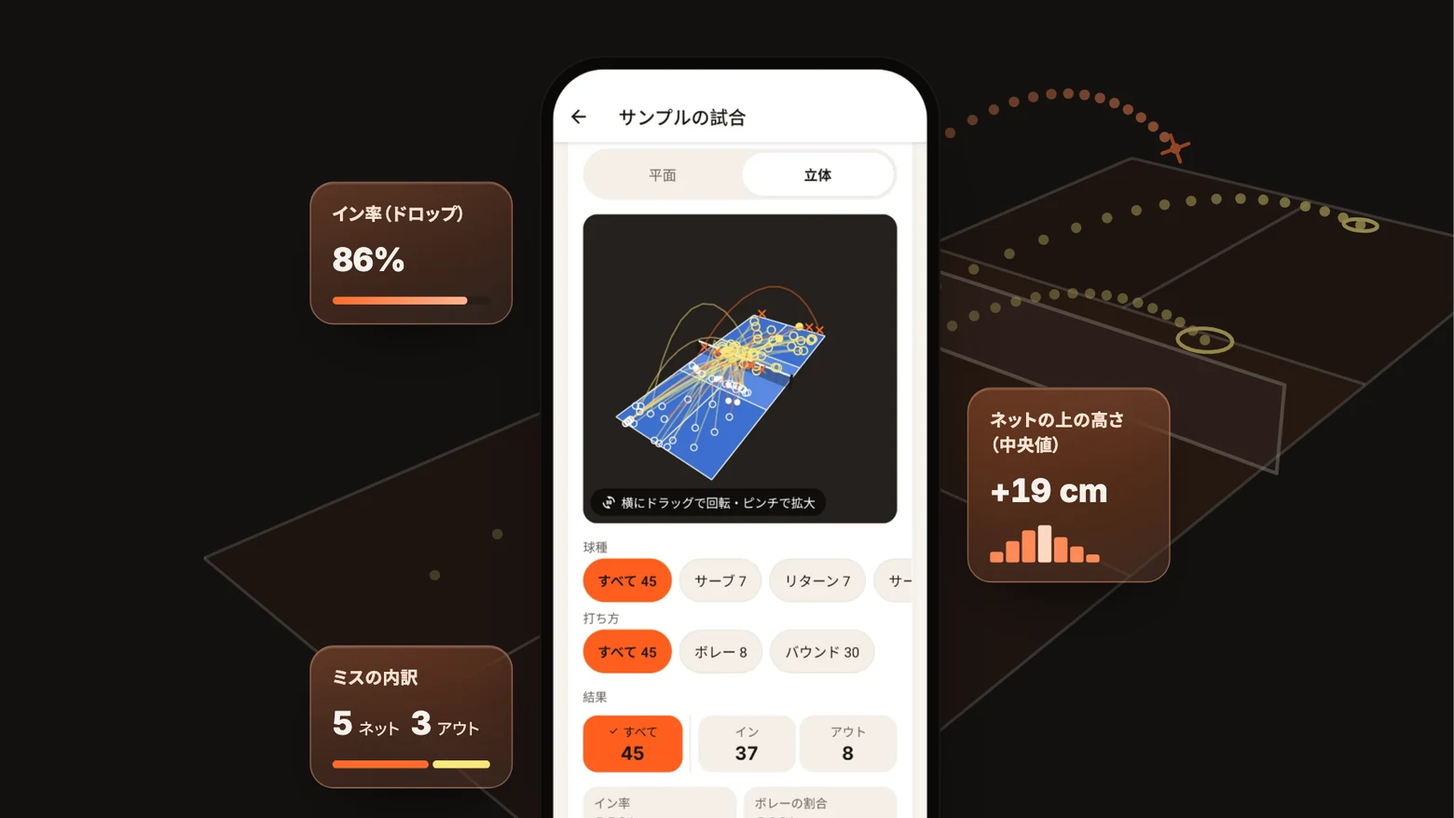
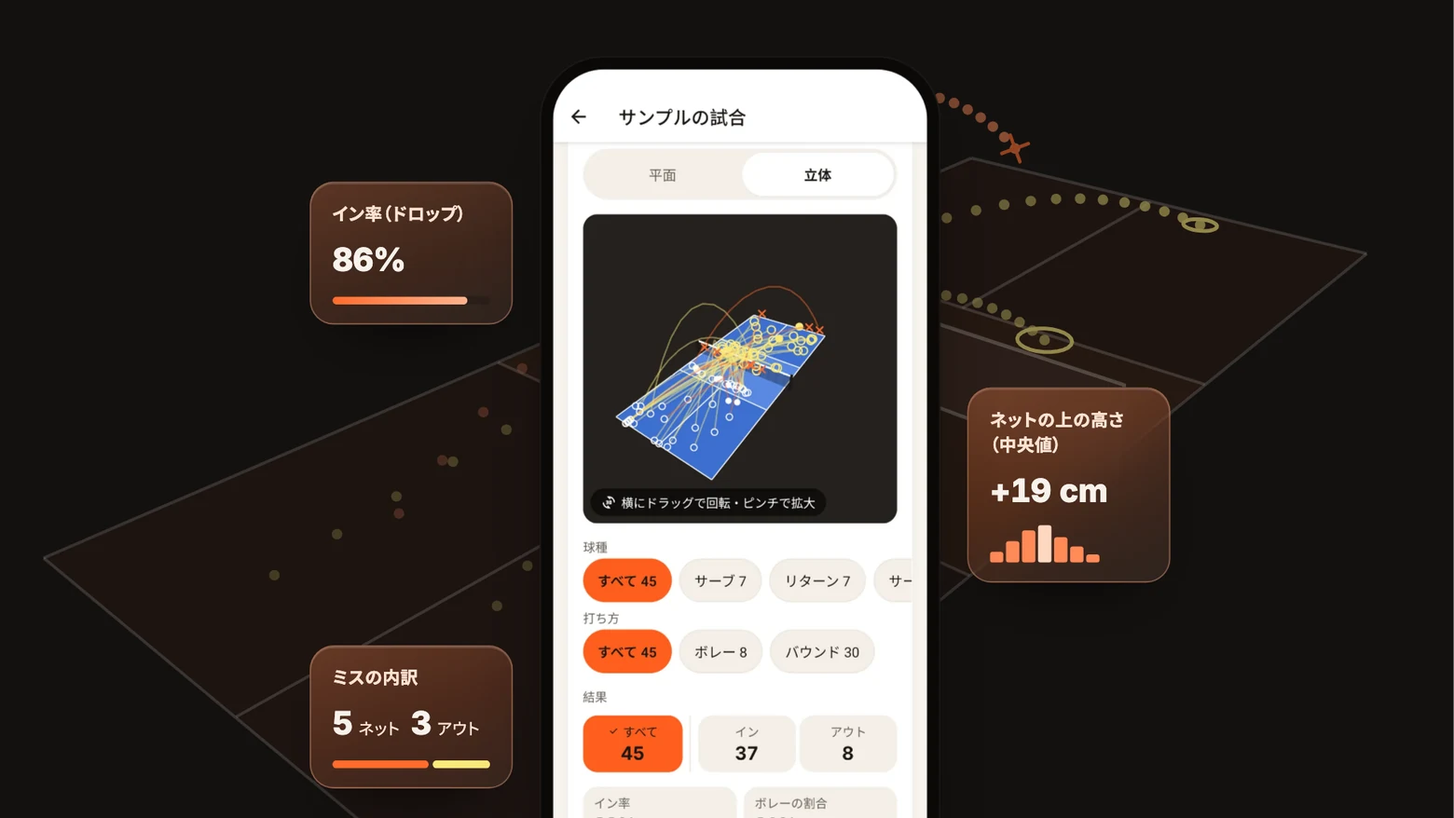
Pickle Up のページの冒頭のコートが、広い画面で絵の枠のところで縦にまっすぐ切れていたので、絵を四方に広げてコートを最後まで描く（打球の位置と大きさは変えない）。トップページのカードの画像は、スマホを中心に切り出し、コートが画像の真ん中に来るようにして撮り直す
Claude-Session: https://claude.ai/code/session_01RcorTwHLSLi3TqpLhpw8hm

diff --git a/en/apps/pickle-up/index.html b/en/apps/pickle-up/index.html
@@ -27,7 +27,7 @@
 <link rel="preconnect" href="https://fonts.gstatic.com" crossorigin>
 <link href="https://fonts.googleapis.com/css2?family=Inter:wght@400;500;600;700;800&family=Noto+Sans+JP:wght@400;500;700;800&display=swap" rel="stylesheet">
 <link rel="stylesheet" href="https://cdnjs.cloudflare.com/ajax/libs/remixicon/4.6.0/remixicon.min.css">
-<link rel="stylesheet" href="/assets/css/apps/pickle-up.css?v=41">
+<link rel="stylesheet" href="/assets/css/apps/pickle-up.css?v=42">
 </head>
 <body class="page-home">
 <header class="app-header over-hero">
@@ -59,7 +59,7 @@
 </header>
 <main>
 <section class="hero">
-<svg class="court-lines hero-court" viewBox="0 0 1200 700" preserveAspectRatio="xMidYMid slice" aria-hidden="true" focusable="false"><path d="M339.5 396.5 L657.6 660.5 L1239.0 188.6 L969.9 124.4 Z" fill="#FF6B2C" fill-opacity=".07"/><path d="M647.8 263.4 L968.9 407.8 L1129.3 277.6 L831.9 183.9 Z" fill="#FF6B2C" fill-opacity=".07"/><line x1="339" y1="396" x2="658" y2="661" stroke="#F7F2EC" stroke-opacity=".28" stroke-width="2"/><line x1="970" y1="124" x2="1239" y2="189" stroke="#F7F2EC" stroke-opacity=".28" stroke-width="2"/><line x1="339" y1="396" x2="970" y2="124" stroke="#F7F2EC" stroke-opacity=".28" stroke-width="2"/><line x1="658" y1="661" x2="1239" y2="189" stroke="#F7F2EC" stroke-opacity=".28" stroke-width="2"/><line x1="648" y1="263" x2="969" y2="408" stroke="#F7F2EC" stroke-opacity=".28" stroke-width="2"/><line x1="832" y1="184" x2="1129" y2="278" stroke="#F7F2EC" stroke-opacity=".28" stroke-width="2"/><line x1="470" y1="504" x2="787" y2="326" stroke="#F7F2EC" stroke-opacity=".28" stroke-width="2"/><line x1="964" y1="226" x2="1092" y2="154" stroke="#F7F2EC" stroke-opacity=".28" stroke-width="2"/><g class="hero-shots"><circle class="start" cx="647.4" cy="428.6" r="3.6" fill="#FCE97A" fill-opacity="0.35"/><circle cx="668.1" cy="401.3" r="3.6" fill="#FCE97A" fill-opacity="0.36"/><circle cx="688.4" cy="376.1" r="3.6" fill="#FCE97A" fill-opacity="0.37"/><circle cx="708.2" cy="353.0" r="3.6" fill="#FCE97A" fill-opacity="0.38"/><circle cx="727.5" cy="332.1" r="3.6" fill="#FCE97A" fill-opacity="0.39"/><circle cx="746.3" cy="313.1" r="3.6" fill="#FCE97A" fill-opacity="0.40"/><circle cx="764.6" cy="296.1" r="3.6" fill="#FCE97A" fill-opacity="0.41"/><circle cx="782.4" cy="281.0" r="3.6" fill="#FCE97A" fill-opacity="0.42"/><circle cx="799.6" cy="267.7" r="3.6" fill="#FCE97A" fill-opacity="0.43"/><circle cx="816.3" cy="256.2" r="3.6" fill="#FCE97A" fill-opacity="0.44"/><circle cx="832.4" cy="246.4" r="3.6" fill="#FCE97A" fill-opacity="0.45"/><circle cx="847.9" cy="238.1" r="3.6" fill="#FCE97A" fill-opacity="0.46"/><circle cx="862.9" cy="231.3" r="3.6" fill="#FCE97A" fill-opacity="0.47"/><circle cx="877.4" cy="225.8" r="3.6" fill="#FCE97A" fill-opacity="0.48"/><circle cx="891.3" cy="221.6" r="3.6" fill="#FCE97A" fill-opacity="0.49"/><circle cx="904.7" cy="218.6" r="3.6" fill="#FCE97A" fill-opacity="0.50"/><circle cx="917.5" cy="216.7" r="3.6" fill="#FCE97A" fill-opacity="0.52"/><circle cx="929.9" cy="216.0" r="3.6" fill="#FCE97A" fill-opacity="0.53"/><circle cx="941.7" cy="216.2" r="3.6" fill="#FCE97A" fill-opacity="0.54"/><circle cx="953.0" cy="217.4" r="3.6" fill="#FCE97A" fill-opacity="0.55"/><circle cx="963.9" cy="219.4" r="3.6" fill="#FCE97A" fill-opacity="0.56"/><circle cx="974.3" cy="222.4" r="3.6" fill="#FCE97A" fill-opacity="0.58"/><circle cx="984.3" cy="226.1" r="3.6" fill="#FCE97A" fill-opacity="0.59"/><circle cx="993.8" cy="230.5" r="3.6" fill="#FCE97A" fill-opacity="0.60"/><circle cx="1002.9" cy="235.6" r="3.6" fill="#FCE97A" fill-opacity="0.62"/><circle cx="1011.6" cy="241.4" r="3.6" fill="#FCE97A" fill-opacity="0.63"/><circle cx="1019.9" cy="247.8" r="3.6" fill="#FCE97A" fill-opacity="0.64"/><path class="mark" d="M1035.9 252.9 L1037.9 251.0 L1038.6 249.0 L1038.0 246.9 L1036.2 244.8 L1033.4 243.0 L1029.6 241.5 L1025.2 240.5 L1020.5 239.9 L1015.7 239.9 L1011.2 240.4 L1007.3 241.3 L1004.2 242.8 L1002.2 244.5 L1001.3 246.6 L1001.7 248.7 L1003.3 250.7 L1006.1 252.6 L1009.9 254.2 L1014.4 255.3 L1019.3 255.9 L1024.2 255.9 L1028.8 255.4 L1032.8 254.4 Z" fill="none" stroke="#FCE97A" stroke-width="2.6"/><circle class="start" cx="496.0" cy="407.7" r="3.6" fill="#FCE97A" fill-opacity="0.33"/><circle cx="538.6" cy="379.8" r="3.6" fill="#FCE97A" fill-opacity="0.34"/><circle cx="579.0" cy="354.1" r="3.6" fill="#FCE97A" fill-opacity="0.36"/><circle cx="617.4" cy="330.5" r="3.6" fill="#FCE97A" fill-opacity="0.37"/><circle cx="653.8" cy="308.7" r="3.6" fill="#FCE97A" fill-opacity="0.39"/><circle cx="688.3" cy="288.7" r="3.6" fill="#FCE97A" fill-opacity="0.40"/><circle cx="721.1" cy="270.3" r="3.6" fill="#FCE97A" fill-opacity="0.42"/><circle cx="752.3" cy="253.5" r="3.6" fill="#FCE97A" fill-opacity="0.44"/><circle cx="782.0" cy="238.1" r="3.6" fill="#FCE97A" fill-opacity="0.46"/><circle cx="810.2" cy="224.0" r="3.6" fill="#FCE97A" fill-opacity="0.48"/><circle cx="837.0" cy="211.2" r="3.6" fill="#FCE97A" fill-opacity="0.50"/><circle cx="862.6" cy="199.6" r="3.6" fill="#FCE97A" fill-opacity="0.51"/><circle cx="886.9" cy="189.1" r="3.6" fill="#FCE97A" fill-opacity="0.53"/><circle cx="910.1" cy="179.6" r="3.6" fill="#FCE97A" fill-opacity="0.56"/><circle cx="932.3" cy="171.4" r="3.6" fill="#FCE97A" fill-opacity="0.58"/><circle cx="953.3" cy="164.7" r="3.6" fill="#FCE97A" fill-opacity="0.60"/><circle cx="973.3" cy="159.6" r="3.6" fill="#FCE97A" fill-opacity="0.62"/><circle cx="992.4" cy="155.7" r="3.6" fill="#FCE97A" fill-opacity="0.64"/><circle cx="1010.5" cy="153.2" r="3.6" fill="#FCE97A" fill-opacity="0.66"/><circle cx="1027.7" cy="151.8" r="3.6" fill="#FCE97A" fill-opacity="0.69"/><circle cx="1044.1" cy="151.6" r="3.6" fill="#FCE97A" fill-opacity="0.71"/><circle cx="1059.6" cy="152.4" r="3.6" fill="#FCE97A" fill-opacity="0.73"/><circle cx="1074.3" cy="154.2" r="3.6" fill="#FCE97A" fill-opacity="0.75"/><circle cx="1088.2" cy="156.8" r="3.6" fill="#FCE97A" fill-opacity="0.78"/><circle cx="1101.4" cy="160.3" r="3.6" fill="#FCE97A" fill-opacity="0.80"/><circle cx="1113.9" cy="164.6" r="3.6" fill="#FCE97A" fill-opacity="0.83"/><circle cx="1125.7" cy="169.5" r="3.6" fill="#FCE97A" fill-opacity="0.85"/><path class="mark" d="M1136.1 172.0 L1137.0 171.1 L1137.2 170.1 L1136.6 169.1 L1135.2 168.1 L1133.2 167.1 L1130.7 166.4 L1127.9 165.9 L1125.0 165.6 L1122.1 165.6 L1119.4 165.8 L1117.2 166.3 L1115.5 167.0 L1114.5 167.9 L1114.3 168.9 L1114.9 170.0 L1116.2 171.0 L1118.2 171.9 L1120.7 172.7 L1123.5 173.2 L1126.5 173.5 L1129.5 173.6 L1132.2 173.3 L1134.5 172.8 Z" fill="none" stroke="#FCE97A" stroke-width="2.6"/><circle class="start" cx="580.7" cy="365.7" r="3.6" fill="#FF8A57" fill-opacity="0.36"/><circle cx="610.2" cy="329.6" r="3.6" fill="#FF8A57" fill-opacity="0.37"/><circle cx="638.1" cy="296.8" r="3.6" fill="#FF8A57" fill-opacity="0.39"/><circle cx="664.5" cy="267.1" r="3.6" fill="#FF8A57" fill-opacity="0.41"/><circle cx="689.4" cy="240.3" r="3.6" fill="#FF8A57" fill-opacity="0.42"/><circle cx="713.0" cy="216.1" r="3.6" fill="#FF8A57" fill-opacity="0.44"/><circle cx="735.4" cy="194.4" r="3.6" fill="#FF8A57" fill-opacity="0.46"/><circle cx="756.5" cy="175.0" r="3.6" fill="#FF8A57" fill-opacity="0.48"/><circle cx="776.5" cy="157.7" r="3.6" fill="#FF8A57" fill-opacity="0.50"/><circle cx="795.5" cy="142.4" r="3.6" fill="#FF8A57" fill-opacity="0.52"/><circle cx="813.4" cy="128.9" r="3.6" fill="#FF8A57" fill-opacity="0.54"/><circle cx="830.4" cy="117.1" r="3.6" fill="#FF8A57" fill-opacity="0.56"/><circle cx="846.6" cy="106.9" r="3.6" fill="#FF8A57" fill-opacity="0.58"/><circle cx="861.8" cy="98.1" r="3.6" fill="#FF8A57" fill-opacity="0.60"/><circle cx="876.3" cy="91.1" r="3.6" fill="#FF8A57" fill-opacity="0.63"/><circle cx="890.0" cy="85.8" r="3.6" fill="#FF8A57" fill-opacity="0.65"/><circle cx="903.1" cy="82.4" r="3.6" fill="#FF8A57" fill-opacity="0.67"/><circle cx="915.4" cy="80.5" r="3.6" fill="#FF8A57" fill-opacity="0.69"/><circle cx="927.0" cy="80.1" r="3.6" fill="#FF8A57" fill-opacity="0.72"/><circle cx="938.0" cy="81.0" r="3.6" fill="#FF8A57" fill-opacity="0.74"/><circle cx="948.5" cy="83.2" r="3.6" fill="#FF8A57" fill-opacity="0.77"/><circle cx="958.3" cy="86.6" r="3.6" fill="#FF8A57" fill-opacity="0.79"/><circle cx="967.6" cy="91.0" r="3.6" fill="#FF8A57" fill-opacity="0.81"/><circle cx="976.4" cy="96.4" r="3.6" fill="#FF8A57" fill-opacity="0.84"/><circle cx="984.7" cy="102.6" r="3.6" fill="#FF8A57" fill-opacity="0.86"/><circle cx="992.5" cy="109.7" r="3.6" fill="#FF8A57" fill-opacity="0.89"/><circle cx="999.8" cy="117.5" r="3.6" fill="#FF8A57" fill-opacity="0.92"/><path class="mark" d="M996.5 108.4 L1003.1 126.5 M990.8 120.8 L1008.9 114.2" stroke="#FF6B2C" stroke-width="2.4" stroke-linecap="round"/></g><path d="M742.6 217.7 L738.7 168.4 L1074.1 278.3 L1068.6 338.5 Z" fill="#F7F2EC" fill-opacity=".06" stroke="#F7F2EC" stroke-opacity=".4" stroke-width="2.5" stroke-linejoin="round"/></svg>
+<svg class="court-lines hero-court" viewBox="-700 -250 2600 1200" preserveAspectRatio="xMidYMid slice" aria-hidden="true" focusable="false"><path d="M339.5 396.5 L657.6 660.5 L1239.0 188.6 L969.9 124.4 Z" fill="#FF6B2C" fill-opacity=".07"/><path d="M647.8 263.4 L968.9 407.8 L1129.3 277.6 L831.9 183.9 Z" fill="#FF6B2C" fill-opacity=".07"/><line x1="339" y1="396" x2="658" y2="661" stroke="#F7F2EC" stroke-opacity=".28" stroke-width="2"/><line x1="970" y1="124" x2="1239" y2="189" stroke="#F7F2EC" stroke-opacity=".28" stroke-width="2"/><line x1="339" y1="396" x2="970" y2="124" stroke="#F7F2EC" stroke-opacity=".28" stroke-width="2"/><line x1="658" y1="661" x2="1239" y2="189" stroke="#F7F2EC" stroke-opacity=".28" stroke-width="2"/><line x1="648" y1="263" x2="969" y2="408" stroke="#F7F2EC" stroke-opacity=".28" stroke-width="2"/><line x1="832" y1="184" x2="1129" y2="278" stroke="#F7F2EC" stroke-opacity=".28" stroke-width="2"/><line x1="470" y1="504" x2="787" y2="326" stroke="#F7F2EC" stroke-opacity=".28" stroke-width="2"/><line x1="964" y1="226" x2="1092" y2="154" stroke="#F7F2EC" stroke-opacity=".28" stroke-width="2"/><g class="hero-shots"><circle class="start" cx="647.4" cy="428.6" r="3.6" fill="#FCE97A" fill-opacity="0.35"/><circle cx="668.1" cy="401.3" r="3.6" fill="#FCE97A" fill-opacity="0.36"/><circle cx="688.4" cy="376.1" r="3.6" fill="#FCE97A" fill-opacity="0.37"/><circle cx="708.2" cy="353.0" r="3.6" fill="#FCE97A" fill-opacity="0.38"/><circle cx="727.5" cy="332.1" r="3.6" fill="#FCE97A" fill-opacity="0.39"/><circle cx="746.3" cy="313.1" r="3.6" fill="#FCE97A" fill-opacity="0.40"/><circle cx="764.6" cy="296.1" r="3.6" fill="#FCE97A" fill-opacity="0.41"/><circle cx="782.4" cy="281.0" r="3.6" fill="#FCE97A" fill-opacity="0.42"/><circle cx="799.6" cy="267.7" r="3.6" fill="#FCE97A" fill-opacity="0.43"/><circle cx="816.3" cy="256.2" r="3.6" fill="#FCE97A" fill-opacity="0.44"/><circle cx="832.4" cy="246.4" r="3.6" fill="#FCE97A" fill-opacity="0.45"/><circle cx="847.9" cy="238.1" r="3.6" fill="#FCE97A" fill-opacity="0.46"/><circle cx="862.9" cy="231.3" r="3.6" fill="#FCE97A" fill-opacity="0.47"/><circle cx="877.4" cy="225.8" r="3.6" fill="#FCE97A" fill-opacity="0.48"/><circle cx="891.3" cy="221.6" r="3.6" fill="#FCE97A" fill-opacity="0.49"/><circle cx="904.7" cy="218.6" r="3.6" fill="#FCE97A" fill-opacity="0.50"/><circle cx="917.5" cy="216.7" r="3.6" fill="#FCE97A" fill-opacity="0.52"/><circle cx="929.9" cy="216.0" r="3.6" fill="#FCE97A" fill-opacity="0.53"/><circle cx="941.7" cy="216.2" r="3.6" fill="#FCE97A" fill-opacity="0.54"/><circle cx="953.0" cy="217.4" r="3.6" fill="#FCE97A" fill-opacity="0.55"/><circle cx="963.9" cy="219.4" r="3.6" fill="#FCE97A" fill-opacity="0.56"/><circle cx="974.3" cy="222.4" r="3.6" fill="#FCE97A" fill-opacity="0.58"/><circle cx="984.3" cy="226.1" r="3.6" fill="#FCE97A" fill-opacity="0.59"/><circle cx="993.8" cy="230.5" r="3.6" fill="#FCE97A" fill-opacity="0.60"/><circle cx="1002.9" cy="235.6" r="3.6" fill="#FCE97A" fill-opacity="0.62"/><circle cx="1011.6" cy="241.4" r="3.6" fill="#FCE97A" fill-opacity="0.63"/><circle cx="1019.9" cy="247.8" r="3.6" fill="#FCE97A" fill-opacity="0.64"/><path class="mark" d="M1035.9 252.9 L1037.9 251.0 L1038.6 249.0 L1038.0 246.9 L1036.2 244.8 L1033.4 243.0 L1029.6 241.5 L1025.2 240.5 L1020.5 239.9 L1015.7 239.9 L1011.2 240.4 L1007.3 241.3 L1004.2 242.8 L1002.2 244.5 L1001.3 246.6 L1001.7 248.7 L1003.3 250.7 L1006.1 252.6 L1009.9 254.2 L1014.4 255.3 L1019.3 255.9 L1024.2 255.9 L1028.8 255.4 L1032.8 254.4 Z" fill="none" stroke="#FCE97A" stroke-width="2.6"/><circle class="start" cx="496.0" cy="407.7" r="3.6" fill="#FCE97A" fill-opacity="0.33"/><circle cx="538.6" cy="379.8" r="3.6" fill="#FCE97A" fill-opacity="0.34"/><circle cx="579.0" cy="354.1" r="3.6" fill="#FCE97A" fill-opacity="0.36"/><circle cx="617.4" cy="330.5" r="3.6" fill="#FCE97A" fill-opacity="0.37"/><circle cx="653.8" cy="308.7" r="3.6" fill="#FCE97A" fill-opacity="0.39"/><circle cx="688.3" cy="288.7" r="3.6" fill="#FCE97A" fill-opacity="0.40"/><circle cx="721.1" cy="270.3" r="3.6" fill="#FCE97A" fill-opacity="0.42"/><circle cx="752.3" cy="253.5" r="3.6" fill="#FCE97A" fill-opacity="0.44"/><circle cx="782.0" cy="238.1" r="3.6" fill="#FCE97A" fill-opacity="0.46"/><circle cx="810.2" cy="224.0" r="3.6" fill="#FCE97A" fill-opacity="0.48"/><circle cx="837.0" cy="211.2" r="3.6" fill="#FCE97A" fill-opacity="0.50"/><circle cx="862.6" cy="199.6" r="3.6" fill="#FCE97A" fill-opacity="0.51"/><circle cx="886.9" cy="189.1" r="3.6" fill="#FCE97A" fill-opacity="0.53"/><circle cx="910.1" cy="179.6" r="3.6" fill="#FCE97A" fill-opacity="0.56"/><circle cx="932.3" cy="171.4" r="3.6" fill="#FCE97A" fill-opacity="0.58"/><circle cx="953.3" cy="164.7" r="3.6" fill="#FCE97A" fill-opacity="0.60"/><circle cx="973.3" cy="159.6" r="3.6" fill="#FCE97A" fill-opacity="0.62"/><circle cx="992.4" cy="155.7" r="3.6" fill="#FCE97A" fill-opacity="0.64"/><circle cx="1010.5" cy="153.2" r="3.6" fill="#FCE97A" fill-opacity="0.66"/><circle cx="1027.7" cy="151.8" r="3.6" fill="#FCE97A" fill-opacity="0.69"/><circle cx="1044.1" cy="151.6" r="3.6" fill="#FCE97A" fill-opacity="0.71"/><circle cx="1059.6" cy="152.4" r="3.6" fill="#FCE97A" fill-opacity="0.73"/><circle cx="1074.3" cy="154.2" r="3.6" fill="#FCE97A" fill-opacity="0.75"/><circle cx="1088.2" cy="156.8" r="3.6" fill="#FCE97A" fill-opacity="0.78"/><circle cx="1101.4" cy="160.3" r="3.6" fill="#FCE97A" fill-opacity="0.80"/><circle cx="1113.9" cy="164.6" r="3.6" fill="#FCE97A" fill-opacity="0.83"/><circle cx="1125.7" cy="169.5" r="3.6" fill="#FCE97A" fill-opacity="0.85"/><path class="mark" d="M1136.1 172.0 L1137.0 171.1 L1137.2 170.1 L1136.6 169.1 L1135.2 168.1 L1133.2 167.1 L1130.7 166.4 L1127.9 165.9 L1125.0 165.6 L1122.1 165.6 L1119.4 165.8 L1117.2 166.3 L1115.5 167.0 L1114.5 167.9 L1114.3 168.9 L1114.9 170.0 L1116.2 171.0 L1118.2 171.9 L1120.7 172.7 L1123.5 173.2 L1126.5 173.5 L1129.5 173.6 L1132.2 173.3 L1134.5 172.8 Z" fill="none" stroke="#FCE97A" stroke-width="2.6"/><circle class="start" cx="580.7" cy="365.7" r="3.6" fill="#FF8A57" fill-opacity="0.36"/><circle cx="610.2" cy="329.6" r="3.6" fill="#FF8A57" fill-opacity="0.37"/><circle cx="638.1" cy="296.8" r="3.6" fill="#FF8A57" fill-opacity="0.39"/><circle cx="664.5" cy="267.1" r="3.6" fill="#FF8A57" fill-opacity="0.41"/><circle cx="689.4" cy="240.3" r="3.6" fill="#FF8A57" fill-opacity="0.42"/><circle cx="713.0" cy="216.1" r="3.6" fill="#FF8A57" fill-opacity="0.44"/><circle cx="735.4" cy="194.4" r="3.6" fill="#FF8A57" fill-opacity="0.46"/><circle cx="756.5" cy="175.0" r="3.6" fill="#FF8A57" fill-opacity="0.48"/><circle cx="776.5" cy="157.7" r="3.6" fill="#FF8A57" fill-opacity="0.50"/><circle cx="795.5" cy="142.4" r="3.6" fill="#FF8A57" fill-opacity="0.52"/><circle cx="813.4" cy="128.9" r="3.6" fill="#FF8A57" fill-opacity="0.54"/><circle cx="830.4" cy="117.1" r="3.6" fill="#FF8A57" fill-opacity="0.56"/><circle cx="846.6" cy="106.9" r="3.6" fill="#FF8A57" fill-opacity="0.58"/><circle cx="861.8" cy="98.1" r="3.6" fill="#FF8A57" fill-opacity="0.60"/><circle cx="876.3" cy="91.1" r="3.6" fill="#FF8A57" fill-opacity="0.63"/><circle cx="890.0" cy="85.8" r="3.6" fill="#FF8A57" fill-opacity="0.65"/><circle cx="903.1" cy="82.4" r="3.6" fill="#FF8A57" fill-opacity="0.67"/><circle cx="915.4" cy="80.5" r="3.6" fill="#FF8A57" fill-opacity="0.69"/><circle cx="927.0" cy="80.1" r="3.6" fill="#FF8A57" fill-opacity="0.72"/><circle cx="938.0" cy="81.0" r="3.6" fill="#FF8A57" fill-opacity="0.74"/><circle cx="948.5" cy="83.2" r="3.6" fill="#FF8A57" fill-opacity="0.77"/><circle cx="958.3" cy="86.6" r="3.6" fill="#FF8A57" fill-opacity="0.79"/><circle cx="967.6" cy="91.0" r="3.6" fill="#FF8A57" fill-opacity="0.81"/><circle cx="976.4" cy="96.4" r="3.6" fill="#FF8A57" fill-opacity="0.84"/><circle cx="984.7" cy="102.6" r="3.6" fill="#FF8A57" fill-opacity="0.86"/><circle cx="992.5" cy="109.7" r="3.6" fill="#FF8A57" fill-opacity="0.89"/><circle cx="999.8" cy="117.5" r="3.6" fill="#FF8A57" fill-opacity="0.92"/><path class="mark" d="M996.5 108.4 L1003.1 126.5 M990.8 120.8 L1008.9 114.2" stroke="#FF6B2C" stroke-width="2.4" stroke-linecap="round"/></g><path d="M742.6 217.7 L738.7 168.4 L1074.1 278.3 L1068.6 338.5 Z" fill="#F7F2EC" fill-opacity=".06" stroke="#F7F2EC" stroke-opacity=".4" stroke-width="2.5" stroke-linejoin="round"/></svg>
 <div class="wrap hero-grid">
 <div class="hero-copy">
 <p class="hero-app"><img src="/images/apps/pickle-up/icon-128.png" alt="" width="40" height="40"><span lang="en">Pickle Up</span></p>
@@ -182,11 +182,11 @@
 </div>
 </div>
 </footer>
-<script src="/assets/js/app-menu.js?v=41" defer></script>
-<script src="/assets/js/app-lang.js?v=41" defer></script>
+<script src="/assets/js/app-menu.js?v=42" defer></script>
+<script src="/assets/js/app-lang.js?v=42" defer></script>
 <script>document.querySelectorAll('[data-year]').forEach(function (el) { el.textContent = new Date().getFullYear(); });</script>
-<script src="/assets/js/app-carousel.js?v=41" defer></script>
-<script src="/assets/js/app-audio.js?v=41" defer></script>
-<script src="/assets/js/app-swipe.js?v=41" defer></script>
+<script src="/assets/js/app-carousel.js?v=42" defer></script>
+<script src="/assets/js/app-audio.js?v=42" defer></script>
+<script src="/assets/js/app-swipe.js?v=42" defer></script>
 </body>
 </html>

diff --git a/ja/apps/pickle-up/index.html b/ja/apps/pickle-up/index.html
@@ -27,7 +27,7 @@
 <link rel="preconnect" href="https://fonts.gstatic.com" crossorigin>
 <link href="https://fonts.googleapis.com/css2?family=Inter:wght@400;500;600;700;800&family=Noto+Sans+JP:wght@400;500;700;800&display=swap" rel="stylesheet">
 <link rel="stylesheet" href="https://cdnjs.cloudflare.com/ajax/libs/remixicon/4.6.0/remixicon.min.css">
-<link rel="stylesheet" href="/assets/css/apps/pickle-up.css?v=41">
+<link rel="stylesheet" href="/assets/css/apps/pickle-up.css?v=42">
 </head>
 <body class="page-home">
 <header class="app-header over-hero">
@@ -59,7 +59,7 @@
 </header>
 <main>
 <section class="hero">
-<svg class="court-lines hero-court" viewBox="0 0 1200 700" preserveAspectRatio="xMidYMid slice" aria-hidden="true" focusable="false"><path d="M339.5 396.5 L657.6 660.5 L1239.0 188.6 L969.9 124.4 Z" fill="#FF6B2C" fill-opacity=".07"/><path d="M647.8 263.4 L968.9 407.8 L1129.3 277.6 L831.9 183.9 Z" fill="#FF6B2C" fill-opacity=".07"/><line x1="339" y1="396" x2="658" y2="661" stroke="#F7F2EC" stroke-opacity=".28" stroke-width="2"/><line x1="970" y1="124" x2="1239" y2="189" stroke="#F7F2EC" stroke-opacity=".28" stroke-width="2"/><line x1="339" y1="396" x2="970" y2="124" stroke="#F7F2EC" stroke-opacity=".28" stroke-width="2"/><line x1="658" y1="661" x2="1239" y2="189" stroke="#F7F2EC" stroke-opacity=".28" stroke-width="2"/><line x1="648" y1="263" x2="969" y2="408" stroke="#F7F2EC" stroke-opacity=".28" stroke-width="2"/><line x1="832" y1="184" x2="1129" y2="278" stroke="#F7F2EC" stroke-opacity=".28" stroke-width="2"/><line x1="470" y1="504" x2="787" y2="326" stroke="#F7F2EC" stroke-opacity=".28" stroke-width="2"/><line x1="964" y1="226" x2="1092" y2="154" stroke="#F7F2EC" stroke-opacity=".28" stroke-width="2"/><g class="hero-shots"><circle class="start" cx="647.4" cy="428.6" r="3.6" fill="#FCE97A" fill-opacity="0.35"/><circle cx="668.1" cy="401.3" r="3.6" fill="#FCE97A" fill-opacity="0.36"/><circle cx="688.4" cy="376.1" r="3.6" fill="#FCE97A" fill-opacity="0.37"/><circle cx="708.2" cy="353.0" r="3.6" fill="#FCE97A" fill-opacity="0.38"/><circle cx="727.5" cy="332.1" r="3.6" fill="#FCE97A" fill-opacity="0.39"/><circle cx="746.3" cy="313.1" r="3.6" fill="#FCE97A" fill-opacity="0.40"/><circle cx="764.6" cy="296.1" r="3.6" fill="#FCE97A" fill-opacity="0.41"/><circle cx="782.4" cy="281.0" r="3.6" fill="#FCE97A" fill-opacity="0.42"/><circle cx="799.6" cy="267.7" r="3.6" fill="#FCE97A" fill-opacity="0.43"/><circle cx="816.3" cy="256.2" r="3.6" fill="#FCE97A" fill-opacity="0.44"/><circle cx="832.4" cy="246.4" r="3.6" fill="#FCE97A" fill-opacity="0.45"/><circle cx="847.9" cy="238.1" r="3.6" fill="#FCE97A" fill-opacity="0.46"/><circle cx="862.9" cy="231.3" r="3.6" fill="#FCE97A" fill-opacity="0.47"/><circle cx="877.4" cy="225.8" r="3.6" fill="#FCE97A" fill-opacity="0.48"/><circle cx="891.3" cy="221.6" r="3.6" fill="#FCE97A" fill-opacity="0.49"/><circle cx="904.7" cy="218.6" r="3.6" fill="#FCE97A" fill-opacity="0.50"/><circle cx="917.5" cy="216.7" r="3.6" fill="#FCE97A" fill-opacity="0.52"/><circle cx="929.9" cy="216.0" r="3.6" fill="#FCE97A" fill-opacity="0.53"/><circle cx="941.7" cy="216.2" r="3.6" fill="#FCE97A" fill-opacity="0.54"/><circle cx="953.0" cy="217.4" r="3.6" fill="#FCE97A" fill-opacity="0.55"/><circle cx="963.9" cy="219.4" r="3.6" fill="#FCE97A" fill-opacity="0.56"/><circle cx="974.3" cy="222.4" r="3.6" fill="#FCE97A" fill-opacity="0.58"/><circle cx="984.3" cy="226.1" r="3.6" fill="#FCE97A" fill-opacity="0.59"/><circle cx="993.8" cy="230.5" r="3.6" fill="#FCE97A" fill-opacity="0.60"/><circle cx="1002.9" cy="235.6" r="3.6" fill="#FCE97A" fill-opacity="0.62"/><circle cx="1011.6" cy="241.4" r="3.6" fill="#FCE97A" fill-opacity="0.63"/><circle cx="1019.9" cy="247.8" r="3.6" fill="#FCE97A" fill-opacity="0.64"/><path class="mark" d="M1035.9 252.9 L1037.9 251.0 L1038.6 249.0 L1038.0 246.9 L1036.2 244.8 L1033.4 243.0 L1029.6 241.5 L1025.2 240.5 L1020.5 239.9 L1015.7 239.9 L1011.2 240.4 L1007.3 241.3 L1004.2 242.8 L1002.2 244.5 L1001.3 246.6 L1001.7 248.7 L1003.3 250.7 L1006.1 252.6 L1009.9 254.2 L1014.4 255.3 L1019.3 255.9 L1024.2 255.9 L1028.8 255.4 L1032.8 254.4 Z" fill="none" stroke="#FCE97A" stroke-width="2.6"/><circle class="start" cx="496.0" cy="407.7" r="3.6" fill="#FCE97A" fill-opacity="0.33"/><circle cx="538.6" cy="379.8" r="3.6" fill="#FCE97A" fill-opacity="0.34"/><circle cx="579.0" cy="354.1" r="3.6" fill="#FCE97A" fill-opacity="0.36"/><circle cx="617.4" cy="330.5" r="3.6" fill="#FCE97A" fill-opacity="0.37"/><circle cx="653.8" cy="308.7" r="3.6" fill="#FCE97A" fill-opacity="0.39"/><circle cx="688.3" cy="288.7" r="3.6" fill="#FCE97A" fill-opacity="0.40"/><circle cx="721.1" cy="270.3" r="3.6" fill="#FCE97A" fill-opacity="0.42"/><circle cx="752.3" cy="253.5" r="3.6" fill="#FCE97A" fill-opacity="0.44"/><circle cx="782.0" cy="238.1" r="3.6" fill="#FCE97A" fill-opacity="0.46"/><circle cx="810.2" cy="224.0" r="3.6" fill="#FCE97A" fill-opacity="0.48"/><circle cx="837.0" cy="211.2" r="3.6" fill="#FCE97A" fill-opacity="0.50"/><circle cx="862.6" cy="199.6" r="3.6" fill="#FCE97A" fill-opacity="0.51"/><circle cx="886.9" cy="189.1" r="3.6" fill="#FCE97A" fill-opacity="0.53"/><circle cx="910.1" cy="179.6" r="3.6" fill="#FCE97A" fill-opacity="0.56"/><circle cx="932.3" cy="171.4" r="3.6" fill="#FCE97A" fill-opacity="0.58"/><circle cx="953.3" cy="164.7" r="3.6" fill="#FCE97A" fill-opacity="0.60"/><circle cx="973.3" cy="159.6" r="3.6" fill="#FCE97A" fill-opacity="0.62"/><circle cx="992.4" cy="155.7" r="3.6" fill="#FCE97A" fill-opacity="0.64"/><circle cx="1010.5" cy="153.2" r="3.6" fill="#FCE97A" fill-opacity="0.66"/><circle cx="1027.7" cy="151.8" r="3.6" fill="#FCE97A" fill-opacity="0.69"/><circle cx="1044.1" cy="151.6" r="3.6" fill="#FCE97A" fill-opacity="0.71"/><circle cx="1059.6" cy="152.4" r="3.6" fill="#FCE97A" fill-opacity="0.73"/><circle cx="1074.3" cy="154.2" r="3.6" fill="#FCE97A" fill-opacity="0.75"/><circle cx="1088.2" cy="156.8" r="3.6" fill="#FCE97A" fill-opacity="0.78"/><circle cx="1101.4" cy="160.3" r="3.6" fill="#FCE97A" fill-opacity="0.80"/><circle cx="1113.9" cy="164.6" r="3.6" fill="#FCE97A" fill-opacity="0.83"/><circle cx="1125.7" cy="169.5" r="3.6" fill="#FCE97A" fill-opacity="0.85"/><path class="mark" d="M1136.1 172.0 L1137.0 171.1 L1137.2 170.1 L1136.6 169.1 L1135.2 168.1 L1133.2 167.1 L1130.7 166.4 L1127.9 165.9 L1125.0 165.6 L1122.1 165.6 L1119.4 165.8 L1117.2 166.3 L1115.5 167.0 L1114.5 167.9 L1114.3 168.9 L1114.9 170.0 L1116.2 171.0 L1118.2 171.9 L1120.7 172.7 L1123.5 173.2 L1126.5 173.5 L1129.5 173.6 L1132.2 173.3 L1134.5 172.8 Z" fill="none" stroke="#FCE97A" stroke-width="2.6"/><circle class="start" cx="580.7" cy="365.7" r="3.6" fill="#FF8A57" fill-opacity="0.36"/><circle cx="610.2" cy="329.6" r="3.6" fill="#FF8A57" fill-opacity="0.37"/><circle cx="638.1" cy="296.8" r="3.6" fill="#FF8A57" fill-opacity="0.39"/><circle cx="664.5" cy="267.1" r="3.6" fill="#FF8A57" fill-opacity="0.41"/><circle cx="689.4" cy="240.3" r="3.6" fill="#FF8A57" fill-opacity="0.42"/><circle cx="713.0" cy="216.1" r="3.6" fill="#FF8A57" fill-opacity="0.44"/><circle cx="735.4" cy="194.4" r="3.6" fill="#FF8A57" fill-opacity="0.46"/><circle cx="756.5" cy="175.0" r="3.6" fill="#FF8A57" fill-opacity="0.48"/><circle cx="776.5" cy="157.7" r="3.6" fill="#FF8A57" fill-opacity="0.50"/><circle cx="795.5" cy="142.4" r="3.6" fill="#FF8A57" fill-opacity="0.52"/><circle cx="813.4" cy="128.9" r="3.6" fill="#FF8A57" fill-opacity="0.54"/><circle cx="830.4" cy="117.1" r="3.6" fill="#FF8A57" fill-opacity="0.56"/><circle cx="846.6" cy="106.9" r="3.6" fill="#FF8A57" fill-opacity="0.58"/><circle cx="861.8" cy="98.1" r="3.6" fill="#FF8A57" fill-opacity="0.60"/><circle cx="876.3" cy="91.1" r="3.6" fill="#FF8A57" fill-opacity="0.63"/><circle cx="890.0" cy="85.8" r="3.6" fill="#FF8A57" fill-opacity="0.65"/><circle cx="903.1" cy="82.4" r="3.6" fill="#FF8A57" fill-opacity="0.67"/><circle cx="915.4" cy="80.5" r="3.6" fill="#FF8A57" fill-opacity="0.69"/><circle cx="927.0" cy="80.1" r="3.6" fill="#FF8A57" fill-opacity="0.72"/><circle cx="938.0" cy="81.0" r="3.6" fill="#FF8A57" fill-opacity="0.74"/><circle cx="948.5" cy="83.2" r="3.6" fill="#FF8A57" fill-opacity="0.77"/><circle cx="958.3" cy="86.6" r="3.6" fill="#FF8A57" fill-opacity="0.79"/><circle cx="967.6" cy="91.0" r="3.6" fill="#FF8A57" fill-opacity="0.81"/><circle cx="976.4" cy="96.4" r="3.6" fill="#FF8A57" fill-opacity="0.84"/><circle cx="984.7" cy="102.6" r="3.6" fill="#FF8A57" fill-opacity="0.86"/><circle cx="992.5" cy="109.7" r="3.6" fill="#FF8A57" fill-opacity="0.89"/><circle cx="999.8" cy="117.5" r="3.6" fill="#FF8A57" fill-opacity="0.92"/><path class="mark" d="M996.5 108.4 L1003.1 126.5 M990.8 120.8 L1008.9 114.2" stroke="#FF6B2C" stroke-width="2.4" stroke-linecap="round"/></g><path d="M742.6 217.7 L738.7 168.4 L1074.1 278.3 L1068.6 338.5 Z" fill="#F7F2EC" fill-opacity=".06" stroke="#F7F2EC" stroke-opacity=".4" stroke-width="2.5" stroke-linejoin="round"/></svg>
+<svg class="court-lines hero-court" viewBox="-700 -250 2600 1200" preserveAspectRatio="xMidYMid slice" aria-hidden="true" focusable="false"><path d="M339.5 396.5 L657.6 660.5 L1239.0 188.6 L969.9 124.4 Z" fill="#FF6B2C" fill-opacity=".07"/><path d="M647.8 263.4 L968.9 407.8 L1129.3 277.6 L831.9 183.9 Z" fill="#FF6B2C" fill-opacity=".07"/><line x1="339" y1="396" x2="658" y2="661" stroke="#F7F2EC" stroke-opacity=".28" stroke-width="2"/><line x1="970" y1="124" x2="1239" y2="189" stroke="#F7F2EC" stroke-opacity=".28" stroke-width="2"/><line x1="339" y1="396" x2="970" y2="124" stroke="#F7F2EC" stroke-opacity=".28" stroke-width="2"/><line x1="658" y1="661" x2="1239" y2="189" stroke="#F7F2EC" stroke-opacity=".28" stroke-width="2"/><line x1="648" y1="263" x2="969" y2="408" stroke="#F7F2EC" stroke-opacity=".28" stroke-width="2"/><line x1="832" y1="184" x2="1129" y2="278" stroke="#F7F2EC" stroke-opacity=".28" stroke-width="2"/><line x1="470" y1="504" x2="787" y2="326" stroke="#F7F2EC" stroke-opacity=".28" stroke-width="2"/><line x1="964" y1="226" x2="1092" y2="154" stroke="#F7F2EC" stroke-opacity=".28" stroke-width="2"/><g class="hero-shots"><circle class="start" cx="647.4" cy="428.6" r="3.6" fill="#FCE97A" fill-opacity="0.35"/><circle cx="668.1" cy="401.3" r="3.6" fill="#FCE97A" fill-opacity="0.36"/><circle cx="688.4" cy="376.1" r="3.6" fill="#FCE97A" fill-opacity="0.37"/><circle cx="708.2" cy="353.0" r="3.6" fill="#FCE97A" fill-opacity="0.38"/><circle cx="727.5" cy="332.1" r="3.6" fill="#FCE97A" fill-opacity="0.39"/><circle cx="746.3" cy="313.1" r="3.6" fill="#FCE97A" fill-opacity="0.40"/><circle cx="764.6" cy="296.1" r="3.6" fill="#FCE97A" fill-opacity="0.41"/><circle cx="782.4" cy="281.0" r="3.6" fill="#FCE97A" fill-opacity="0.42"/><circle cx="799.6" cy="267.7" r="3.6" fill="#FCE97A" fill-opacity="0.43"/><circle cx="816.3" cy="256.2" r="3.6" fill="#FCE97A" fill-opacity="0.44"/><circle cx="832.4" cy="246.4" r="3.6" fill="#FCE97A" fill-opacity="0.45"/><circle cx="847.9" cy="238.1" r="3.6" fill="#FCE97A" fill-opacity="0.46"/><circle cx="862.9" cy="231.3" r="3.6" fill="#FCE97A" fill-opacity="0.47"/><circle cx="877.4" cy="225.8" r="3.6" fill="#FCE97A" fill-opacity="0.48"/><circle cx="891.3" cy="221.6" r="3.6" fill="#FCE97A" fill-opacity="0.49"/><circle cx="904.7" cy="218.6" r="3.6" fill="#FCE97A" fill-opacity="0.50"/><circle cx="917.5" cy="216.7" r="3.6" fill="#FCE97A" fill-opacity="0.52"/><circle cx="929.9" cy="216.0" r="3.6" fill="#FCE97A" fill-opacity="0.53"/><circle cx="941.7" cy="216.2" r="3.6" fill="#FCE97A" fill-opacity="0.54"/><circle cx="953.0" cy="217.4" r="3.6" fill="#FCE97A" fill-opacity="0.55"/><circle cx="963.9" cy="219.4" r="3.6" fill="#FCE97A" fill-opacity="0.56"/><circle cx="974.3" cy="222.4" r="3.6" fill="#FCE97A" fill-opacity="0.58"/><circle cx="984.3" cy="226.1" r="3.6" fill="#FCE97A" fill-opacity="0.59"/><circle cx="993.8" cy="230.5" r="3.6" fill="#FCE97A" fill-opacity="0.60"/><circle cx="1002.9" cy="235.6" r="3.6" fill="#FCE97A" fill-opacity="0.62"/><circle cx="1011.6" cy="241.4" r="3.6" fill="#FCE97A" fill-opacity="0.63"/><circle cx="1019.9" cy="247.8" r="3.6" fill="#FCE97A" fill-opacity="0.64"/><path class="mark" d="M1035.9 252.9 L1037.9 251.0 L1038.6 249.0 L1038.0 246.9 L1036.2 244.8 L1033.4 243.0 L1029.6 241.5 L1025.2 240.5 L1020.5 239.9 L1015.7 239.9 L1011.2 240.4 L1007.3 241.3 L1004.2 242.8 L1002.2 244.5 L1001.3 246.6 L1001.7 248.7 L1003.3 250.7 L1006.1 252.6 L1009.9 254.2 L1014.4 255.3 L1019.3 255.9 L1024.2 255.9 L1028.8 255.4 L1032.8 254.4 Z" fill="none" stroke="#FCE97A" stroke-width="2.6"/><circle class="start" cx="496.0" cy="407.7" r="3.6" fill="#FCE97A" fill-opacity="0.33"/><circle cx="538.6" cy="379.8" r="3.6" fill="#FCE97A" fill-opacity="0.34"/><circle cx="579.0" cy="354.1" r="3.6" fill="#FCE97A" fill-opacity="0.36"/><circle cx="617.4" cy="330.5" r="3.6" fill="#FCE97A" fill-opacity="0.37"/><circle cx="653.8" cy="308.7" r="3.6" fill="#FCE97A" fill-opacity="0.39"/><circle cx="688.3" cy="288.7" r="3.6" fill="#FCE97A" fill-opacity="0.40"/><circle cx="721.1" cy="270.3" r="3.6" fill="#FCE97A" fill-opacity="0.42"/><circle cx="752.3" cy="253.5" r="3.6" fill="#FCE97A" fill-opacity="0.44"/><circle cx="782.0" cy="238.1" r="3.6" fill="#FCE97A" fill-opacity="0.46"/><circle cx="810.2" cy="224.0" r="3.6" fill="#FCE97A" fill-opacity="0.48"/><circle cx="837.0" cy="211.2" r="3.6" fill="#FCE97A" fill-opacity="0.50"/><circle cx="862.6" cy="199.6" r="3.6" fill="#FCE97A" fill-opacity="0.51"/><circle cx="886.9" cy="189.1" r="3.6" fill="#FCE97A" fill-opacity="0.53"/><circle cx="910.1" cy="179.6" r="3.6" fill="#FCE97A" fill-opacity="0.56"/><circle cx="932.3" cy="171.4" r="3.6" fill="#FCE97A" fill-opacity="0.58"/><circle cx="953.3" cy="164.7" r="3.6" fill="#FCE97A" fill-opacity="0.60"/><circle cx="973.3" cy="159.6" r="3.6" fill="#FCE97A" fill-opacity="0.62"/><circle cx="992.4" cy="155.7" r="3.6" fill="#FCE97A" fill-opacity="0.64"/><circle cx="1010.5" cy="153.2" r="3.6" fill="#FCE97A" fill-opacity="0.66"/><circle cx="1027.7" cy="151.8" r="3.6" fill="#FCE97A" fill-opacity="0.69"/><circle cx="1044.1" cy="151.6" r="3.6" fill="#FCE97A" fill-opacity="0.71"/><circle cx="1059.6" cy="152.4" r="3.6" fill="#FCE97A" fill-opacity="0.73"/><circle cx="1074.3" cy="154.2" r="3.6" fill="#FCE97A" fill-opacity="0.75"/><circle cx="1088.2" cy="156.8" r="3.6" fill="#FCE97A" fill-opacity="0.78"/><circle cx="1101.4" cy="160.3" r="3.6" fill="#FCE97A" fill-opacity="0.80"/><circle cx="1113.9" cy="164.6" r="3.6" fill="#FCE97A" fill-opacity="0.83"/><circle cx="1125.7" cy="169.5" r="3.6" fill="#FCE97A" fill-opacity="0.85"/><path class="mark" d="M1136.1 172.0 L1137.0 171.1 L1137.2 170.1 L1136.6 169.1 L1135.2 168.1 L1133.2 167.1 L1130.7 166.4 L1127.9 165.9 L1125.0 165.6 L1122.1 165.6 L1119.4 165.8 L1117.2 166.3 L1115.5 167.0 L1114.5 167.9 L1114.3 168.9 L1114.9 170.0 L1116.2 171.0 L1118.2 171.9 L1120.7 172.7 L1123.5 173.2 L1126.5 173.5 L1129.5 173.6 L1132.2 173.3 L1134.5 172.8 Z" fill="none" stroke="#FCE97A" stroke-width="2.6"/><circle class="start" cx="580.7" cy="365.7" r="3.6" fill="#FF8A57" fill-opacity="0.36"/><circle cx="610.2" cy="329.6" r="3.6" fill="#FF8A57" fill-opacity="0.37"/><circle cx="638.1" cy="296.8" r="3.6" fill="#FF8A57" fill-opacity="0.39"/><circle cx="664.5" cy="267.1" r="3.6" fill="#FF8A57" fill-opacity="0.41"/><circle cx="689.4" cy="240.3" r="3.6" fill="#FF8A57" fill-opacity="0.42"/><circle cx="713.0" cy="216.1" r="3.6" fill="#FF8A57" fill-opacity="0.44"/><circle cx="735.4" cy="194.4" r="3.6" fill="#FF8A57" fill-opacity="0.46"/><circle cx="756.5" cy="175.0" r="3.6" fill="#FF8A57" fill-opacity="0.48"/><circle cx="776.5" cy="157.7" r="3.6" fill="#FF8A57" fill-opacity="0.50"/><circle cx="795.5" cy="142.4" r="3.6" fill="#FF8A57" fill-opacity="0.52"/><circle cx="813.4" cy="128.9" r="3.6" fill="#FF8A57" fill-opacity="0.54"/><circle cx="830.4" cy="117.1" r="3.6" fill="#FF8A57" fill-opacity="0.56"/><circle cx="846.6" cy="106.9" r="3.6" fill="#FF8A57" fill-opacity="0.58"/><circle cx="861.8" cy="98.1" r="3.6" fill="#FF8A57" fill-opacity="0.60"/><circle cx="876.3" cy="91.1" r="3.6" fill="#FF8A57" fill-opacity="0.63"/><circle cx="890.0" cy="85.8" r="3.6" fill="#FF8A57" fill-opacity="0.65"/><circle cx="903.1" cy="82.4" r="3.6" fill="#FF8A57" fill-opacity="0.67"/><circle cx="915.4" cy="80.5" r="3.6" fill="#FF8A57" fill-opacity="0.69"/><circle cx="927.0" cy="80.1" r="3.6" fill="#FF8A57" fill-opacity="0.72"/><circle cx="938.0" cy="81.0" r="3.6" fill="#FF8A57" fill-opacity="0.74"/><circle cx="948.5" cy="83.2" r="3.6" fill="#FF8A57" fill-opacity="0.77"/><circle cx="958.3" cy="86.6" r="3.6" fill="#FF8A57" fill-opacity="0.79"/><circle cx="967.6" cy="91.0" r="3.6" fill="#FF8A57" fill-opacity="0.81"/><circle cx="976.4" cy="96.4" r="3.6" fill="#FF8A57" fill-opacity="0.84"/><circle cx="984.7" cy="102.6" r="3.6" fill="#FF8A57" fill-opacity="0.86"/><circle cx="992.5" cy="109.7" r="3.6" fill="#FF8A57" fill-opacity="0.89"/><circle cx="999.8" cy="117.5" r="3.6" fill="#FF8A57" fill-opacity="0.92"/><path class="mark" d="M996.5 108.4 L1003.1 126.5 M990.8 120.8 L1008.9 114.2" stroke="#FF6B2C" stroke-width="2.4" stroke-linecap="round"/></g><path d="M742.6 217.7 L738.7 168.4 L1074.1 278.3 L1068.6 338.5 Z" fill="#F7F2EC" fill-opacity=".06" stroke="#F7F2EC" stroke-opacity=".4" stroke-width="2.5" stroke-linejoin="round"/></svg>
 <div class="wrap hero-grid">
 <div class="hero-copy">
 <p class="hero-app"><img src="/images/apps/pickle-up/icon-128.png" alt="" width="40" height="40"><span lang="en">Pickle Up</span></p>
@@ -182,11 +182,11 @@
 </div>
 </div>
 </footer>
-<script src="/assets/js/app-menu.js?v=41" defer></script>
-<script src="/assets/js/app-lang.js?v=41" defer></script>
+<script src="/assets/js/app-menu.js?v=42" defer></script>
+<script src="/assets/js/app-lang.js?v=42" defer></script>
 <script>document.querySelectorAll('[data-year]').forEach(function (el) { el.textContent = new Date().getFullYear(); });</script>
-<script src="/assets/js/app-carousel.js?v=41" defer></script>
-<script src="/assets/js/app-audio.js?v=41" defer></script>
-<script src="/assets/js/app-swipe.js?v=41" defer></script>
+<script src="/assets/js/app-carousel.js?v=42" defer></script>
+<script src="/assets/js/app-audio.js?v=42" defer></script>
+<script src="/assets/js/app-swipe.js?v=42" defer></script>
 </body>
 </html>

diff --git a/ja/apps/pickle-up/support/index.html b/ja/apps/pickle-up/support/index.html
@@ -27,7 +27,7 @@
 <link rel="preconnect" href="https://fonts.gstatic.com" crossorigin>
 <link href="https://fonts.googleapis.com/css2?family=Inter:wght@400;500;600;700;800&family=Noto+Sans+JP:wght@400;500;700;800&display=swap" rel="stylesheet">
 <link rel="stylesheet" href="https://cdnjs.cloudflare.com/ajax/libs/remixicon/4.6.0/remixicon.min.css">
-<link rel="stylesheet" href="/assets/css/apps/pickle-up.css?v=41">
+<link rel="stylesheet" href="/assets/css/apps/pickle-up.css?v=42">
 </head>
 <body class="page-doc">
 <header class="app-header">
@@ -78,7 +78,7 @@
 <button type="submit" class="button">メールで送る<i class="ri-mail-send-line" aria-hidden="true"></i></button>
 </form>
 </section>
-<script src="/assets/js/app-contact.js?v=41" defer></script>
+<script src="/assets/js/app-contact.js?v=42" defer></script>
 </div>
 </main>
 <footer class="app-footer">
@@ -109,8 +109,8 @@
 </div>
 </div>
 </footer>
-<script src="/assets/js/app-menu.js?v=41" defer></script>
-<script src="/assets/js/app-lang.js?v=41" defer></script>
+<script src="/assets/js/app-menu.js?v=42" defer></script>
+<script src="/assets/js/app-lang.js?v=42" defer></script>
 <script>document.querySelectorAll('[data-year]').forEach(function (el) { el.textContent = new Date().getFullYear(); });</script>
 </body>
 </html>

diff --git a/en/apps/pickle-up/support/index.html b/en/apps/pickle-up/support/index.html
@@ -27,7 +27,7 @@
 <link rel="preconnect" href="https://fonts.gstatic.com" crossorigin>
 <link href="https://fonts.googleapis.com/css2?family=Inter:wght@400;500;600;700;800&family=Noto+Sans+JP:wght@400;500;700;800&display=swap" rel="stylesheet">
 <link rel="stylesheet" href="https://cdnjs.cloudflare.com/ajax/libs/remixicon/4.6.0/remixicon.min.css">
-<link rel="stylesheet" href="/assets/css/apps/pickle-up.css?v=41">
+<link rel="stylesheet" href="/assets/css/apps/pickle-up.css?v=42">
 </head>
 <body class="page-doc">
 <header class="app-header">
@@ -78,7 +78,7 @@
 <button type="submit" class="button">Continue to email<i class="ri-mail-send-line" aria-hidden="true"></i></button>
 </form>
 </section>
-<script src="/assets/js/app-contact.js?v=41" defer></script>
+<script src="/assets/js/app-contact.js?v=42" defer></script>
 </div>
 </main>
 <footer class="app-footer">
@@ -109,8 +109,8 @@
 </div>
 </div>
 </footer>
-<script src="/assets/js/app-menu.js?v=41" defer></script>
-<script src="/assets/js/app-lang.js?v=41" defer></script>
+<script src="/assets/js/app-menu.js?v=42" defer></script>
+<script src="/assets/js/app-lang.js?v=42" defer></script>
 <script>document.querySelectorAll('[data-year]').forEach(function (el) { el.textContent = new Date().getFullYear(); });</script>
 </body>
 </html>

diff --git a/assets/css/apps/pickle-up.css b/assets/css/apps/pickle-up.css
@@ -95,10 +95,10 @@ img { max-width: 100%; height: auto; }
 .court-lines.hero-court { opacity: .55; }
 /* The shots are placed around the phone and its cards as they sit on wide screens only. */
 @media (max-width: 1179px) { .hero-court .hero-shots { display: none; } }
-/* On wide screens one size, centred on the hero as its content is, so the picture keeps to the phone and its
-   cards however wide the window (stretched to the window's width, it grew past them and was cut off). */
+/* On wide screens one size (its 1200 x 700 frame at 1320 x 770 px), centred on the hero as its content is, so
+   the picture keeps to the phone and its cards however wide the window; the court runs on past the frame. */
 @media (min-width: 1180px) {
-  .court-lines.hero-court { inset: auto; left: 50%; top: 50%; width: 1320px; height: 770px; transform: translate(-50%, -50%); }
+  .court-lines.hero-court { inset: auto; left: 50%; top: 50%; width: 2860px; height: 1320px; transform: translate(-50%, -50%); }
   /* Centred on the content, below the bar the hero runs up under. */
   .app-header.over-hero + main .court-lines.hero-court { top: calc(50% + 32px); }
 }

diff --git a/en/apps/pickle-up/privacy/index.html b/en/apps/pickle-up/privacy/index.html
@@ -27,7 +27,7 @@
 <link rel="preconnect" href="https://fonts.gstatic.com" crossorigin>
 <link href="https://fonts.googleapis.com/css2?family=Inter:wght@400;500;600;700;800&family=Noto+Sans+JP:wght@400;500;700;800&display=swap" rel="stylesheet">
 <link rel="stylesheet" href="https://cdnjs.cloudflare.com/ajax/libs/remixicon/4.6.0/remixicon.min.css">
-<link rel="stylesheet" href="/assets/css/apps/pickle-up.css?v=41">
+<link rel="stylesheet" href="/assets/css/apps/pickle-up.css?v=42">
 </head>
 <body class="page-doc">
 <header class="app-header">
@@ -180,8 +180,8 @@
 </div>
 </div>
 </footer>
-<script src="/assets/js/app-menu.js?v=41" defer></script>
-<script src="/assets/js/app-lang.js?v=41" defer></script>
+<script src="/assets/js/app-menu.js?v=42" defer></script>
+<script src="/assets/js/app-lang.js?v=42" defer></script>
 <script>document.querySelectorAll('[data-year]').forEach(function (el) { el.textContent = new Date().getFullYear(); });</script>
 </body>
 </html>

diff --git a/ja/apps/pickle-up/privacy/index.html b/ja/apps/pickle-up/privacy/index.html
@@ -27,7 +27,7 @@
 <link rel="preconnect" href="https://fonts.gstatic.com" crossorigin>
 <link href="https://fonts.googleapis.com/css2?family=Inter:wght@400;500;600;700;800&family=Noto+Sans+JP:wght@400;500;700;800&display=swap" rel="stylesheet">
 <link rel="stylesheet" href="https://cdnjs.cloudflare.com/ajax/libs/remixicon/4.6.0/remixicon.min.css">
-<link rel="stylesheet" href="/assets/css/apps/pickle-up.css?v=41">
+<link rel="stylesheet" href="/assets/css/apps/pickle-up.css?v=42">
 </head>
 <body class="page-doc">
 <header class="app-header">
@@ -180,8 +180,8 @@
 </div>
 </div>
 </footer>
-<script src="/assets/js/app-menu.js?v=41" defer></script>
-<script src="/assets/js/app-lang.js?v=41" defer></script>
+<script src="/assets/js/app-menu.js?v=42" defer></script>
+<script src="/assets/js/app-lang.js?v=42" defer></script>
 <script>document.querySelectorAll('[data-year]').forEach(function (el) { el.textContent = new Date().getFullYear(); });</script>
 </body>
 </html>

diff --git a/scripts/app_pages/build.py b/scripts/app_pages/build.py
@@ -16,7 +16,7 @@ LANGS = ('ja', 'en')
 OTHER = {'ja': 'en', 'en': 'ja'}
 LANG_LABEL = {'ja': '日本語', 'en': 'English'}
 OG_LOCALE = {'ja': 'ja_JP', 'en': 'en_US'}
-CSS_VERSION = 41
+CSS_VERSION = 42
 
 
 def read(path):
@@ -531,7 +531,9 @@ def hero_court_svg(side=5.0, back=-3.0, up=6.5, x0=900, y0=240, scale=920, shots
     P, H = .15, .914
     out.append(f'<path d="M{pts([at(-P, NET), at(-P, NET, H), at(W + P, NET, H), at(W + P, NET)])} Z" fill="{LINE}" fill-opacity=".06" '
                f'stroke="{LINE}" stroke-opacity=".4" stroke-width="2.5" stroke-linejoin="round"/>')
-    return (f'<svg class="court-lines hero-court" viewBox="0 0 1200 700" preserveAspectRatio="xMidYMid slice" aria-hidden="true" focusable="false">'
+    # Laid out in a 1200 x 700 frame; the picture reaches well past it on every side (centred on the same
+    # point), so on a wide screen the court runs on to the edge instead of stopping at the frame's.
+    return (f'<svg class="court-lines hero-court" viewBox="-700 -250 2600 1200" preserveAspectRatio="xMidYMid slice" aria-hidden="true" focusable="false">'
             f'{"".join(out)}</svg>')
 
 
